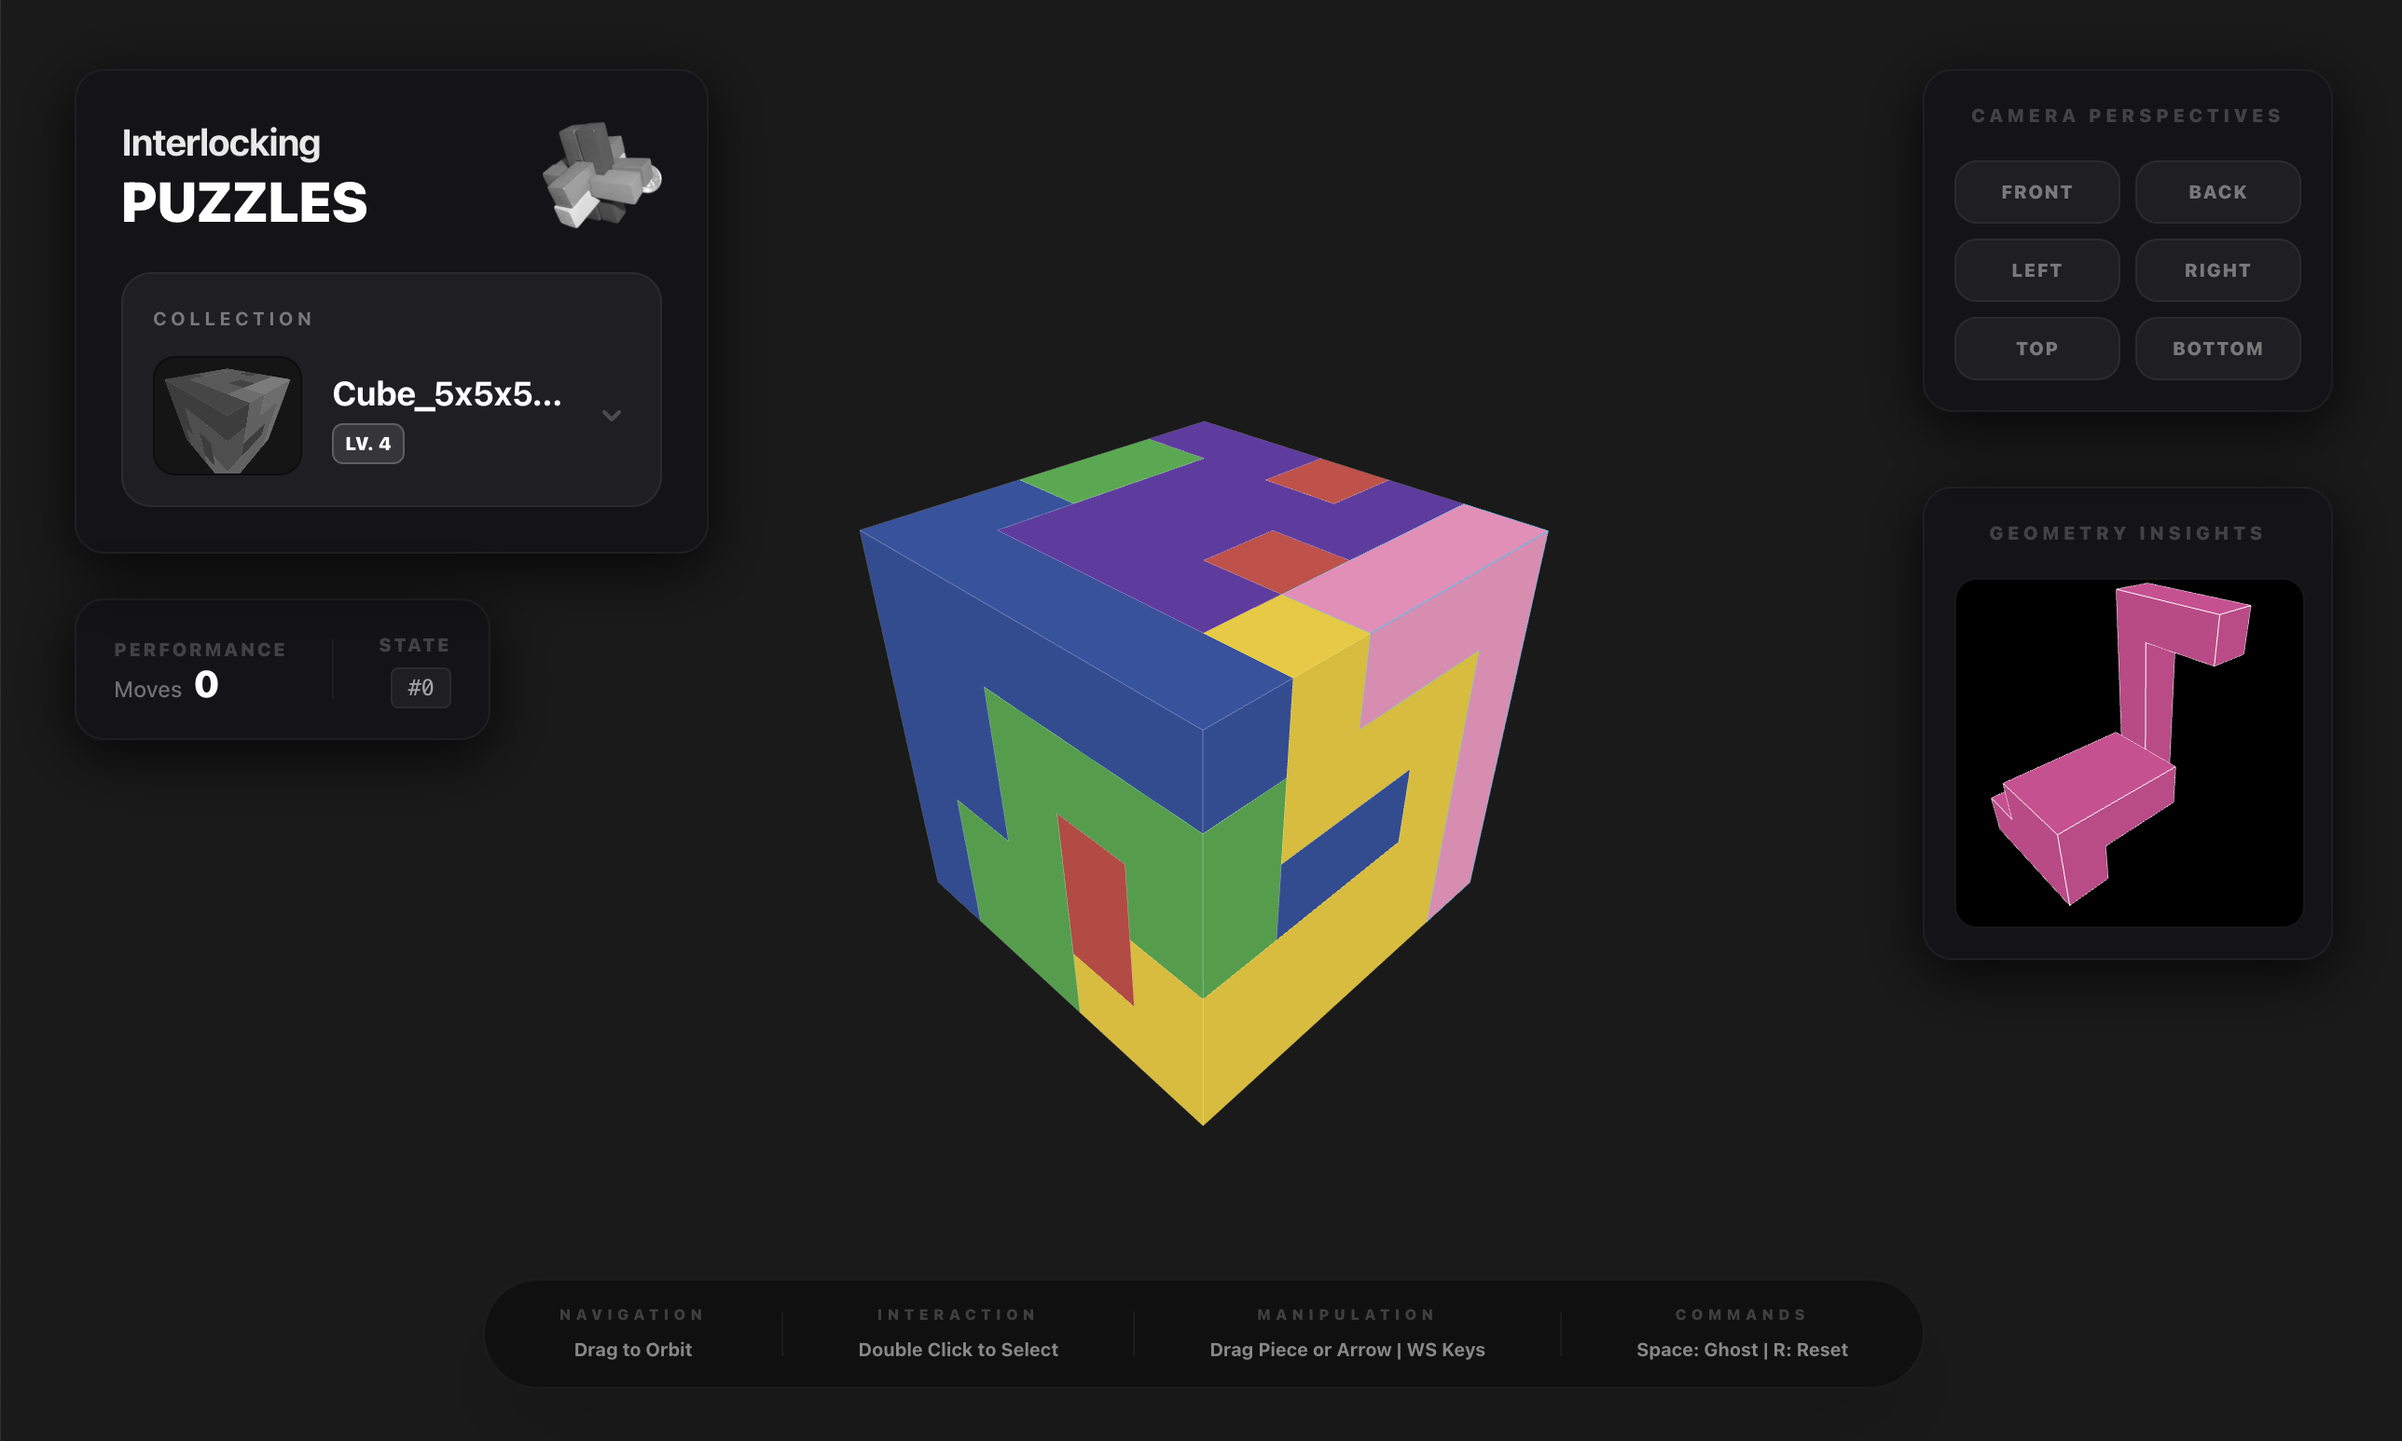
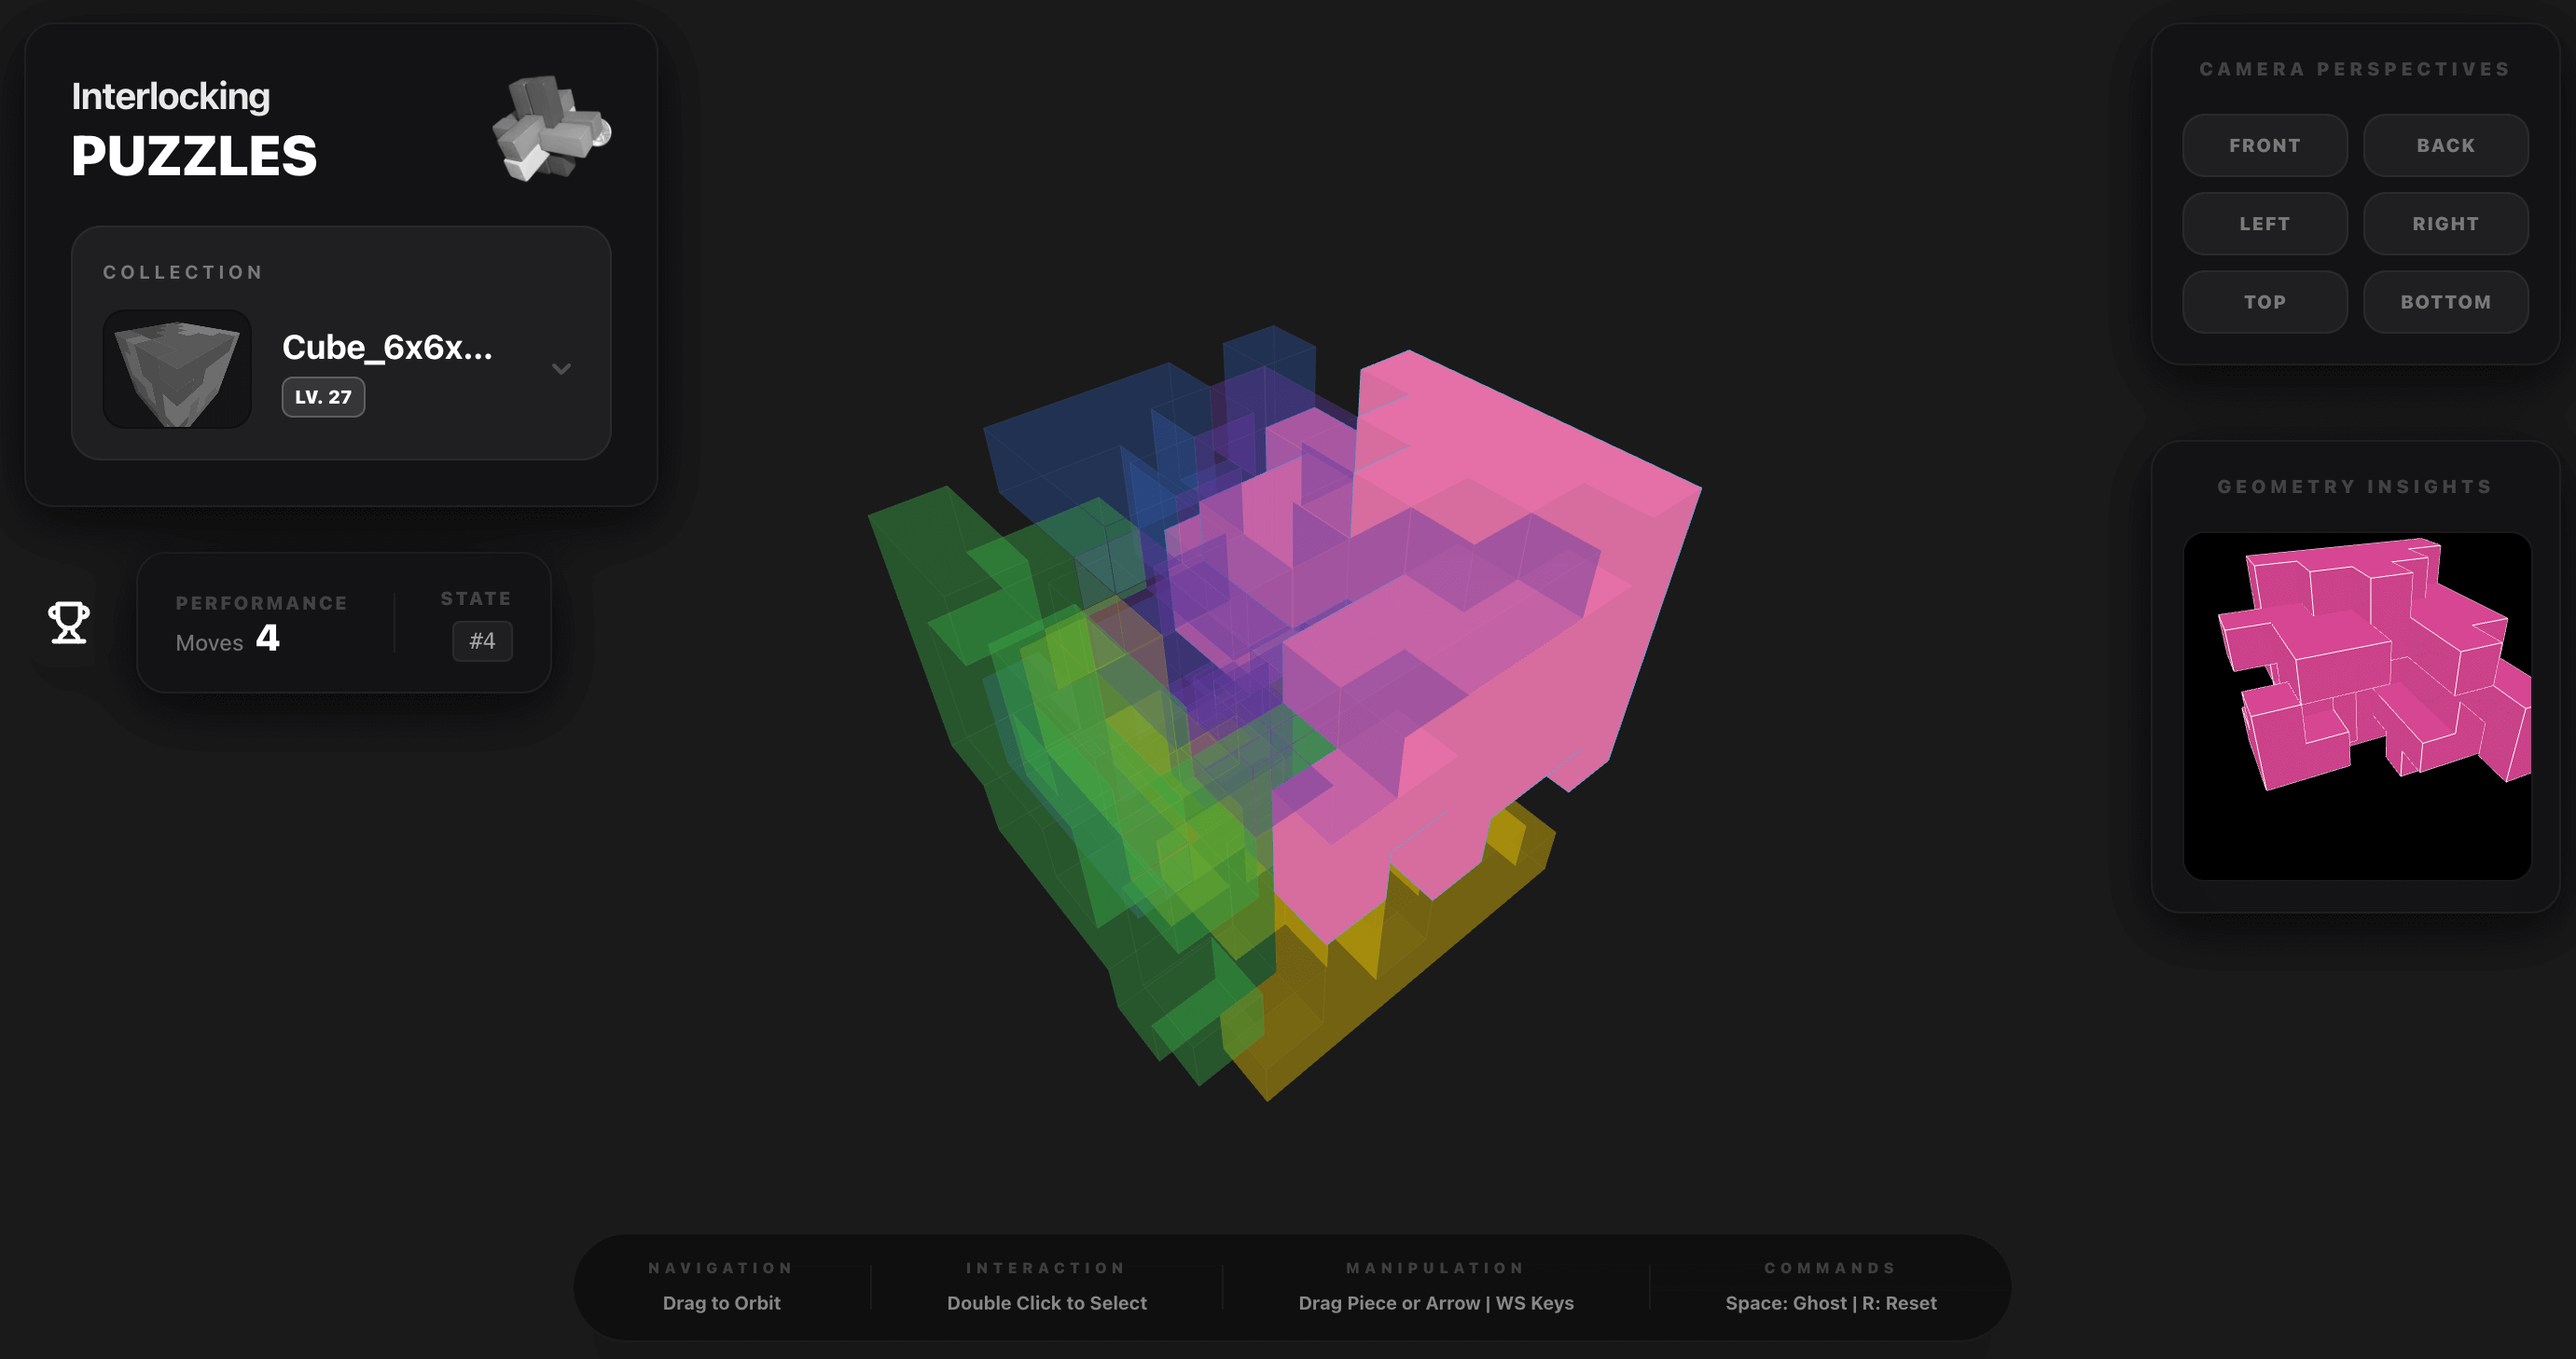
fix: Geometry Insights not showing

diff --git a/src/components/PieceAnalysis.svelte b/src/components/PieceAnalysis.svelte
@@ -34,36 +34,38 @@
   function initScene() {
     if (!container) return;
     
-    scene = new THREE.Scene();
-    scene.background = new THREE.Color(0x000000); 
-    // Opacity handled by renderer alpha if needed, but here we want a specific bg for analysis usually
-    // Original CSS had background: rgba(0, 0, 0, 0.3);
-    
-    camera = new THREE.PerspectiveCamera(50, 1, 0.1, 10);
-    camera.position.set(2, 2, 2);
-    camera.lookAt(0, 0, 0);
+    if (!scene) {
+      scene = new THREE.Scene();
+      scene.background = new THREE.Color(0x000000); 
+      
+      camera = new THREE.PerspectiveCamera(50, 1, 0.1, 10);
+      camera.position.set(2, 2, 2);
+      camera.lookAt(0, 0, 0);
 
-    renderer = new THREE.WebGLRenderer({ antialias: true, alpha: true });
-    renderer.setSize(200, 200);
-    renderer.setPixelRatio(window.devicePixelRatio);
-    container.appendChild(renderer.domElement);
+      renderer = new THREE.WebGLRenderer({ antialias: true, alpha: true });
+      renderer.setSize(200, 200);
+      renderer.setPixelRatio(window.devicePixelRatio);
 
-    setupSceneLighting(scene);
+      setupSceneLighting(scene);
+      animate();
+    }
 
-    // const grid = new THREE.GridHelper(2, 8, 0x333333, 0x222222);
-    // scene.add(grid);
-
-    animate();
+    if (container && !container.contains(renderer.domElement)) {
+      container.innerHTML = '';
+      container.appendChild(renderer.domElement);
+    }
   }
 
   function animate() {
     animationId = requestAnimationFrame(animate);
-    if (!$activePieceId) return;
+    if (!renderer || !scene || !camera) return;
     
-    if (pieceGroup) {
-      pieceGroup.rotation.y += 0.01;
+    if ($activePieceId) {
+      if (pieceGroup) {
+        pieceGroup.rotation.y += 0.01;
+      }
+      renderer.render(scene, camera);
     }
-    renderer.render(scene, camera);
   }
 
   async function updatePiece(id: string | null) {
@@ -75,13 +77,15 @@
     }
     currentPieceId = id;
     
-    // Safety check just in case init failed or isn't done
-    if (!scene) {
-      if(container) initScene();
-      if(!scene) return;
-    }
+    // Wait for DOM update if panel just appeared
+    await tick();
     
-    if (!$puzzleData) return;
+    // Safety check just in case init failed or isn't done
+    if (container) {
+      initScene();
+    }
+
+    if (!scene || !$puzzleData) return;
 
     if (pieceGroup) scene.remove(pieceGroup);
 

diff --git a/README.md b/README.md
@@ -7,5 +7,10 @@ A 3D interlocking puzzle game.
 These puzzles are generated based on [Computational Design of High-level Interlocking Puzzles](https://sutd-cgl.github.io/supp/Publication/projects/2022-SIGGRAPH-High-LevelPuzzle/index.html)
 
 
+https://github.com/user-attachments/assets/7abe5533-eece-4efe-b1aa-4cedaf963c33
+
+
+---
+
 
 ![screenshot](screenshot.png)
